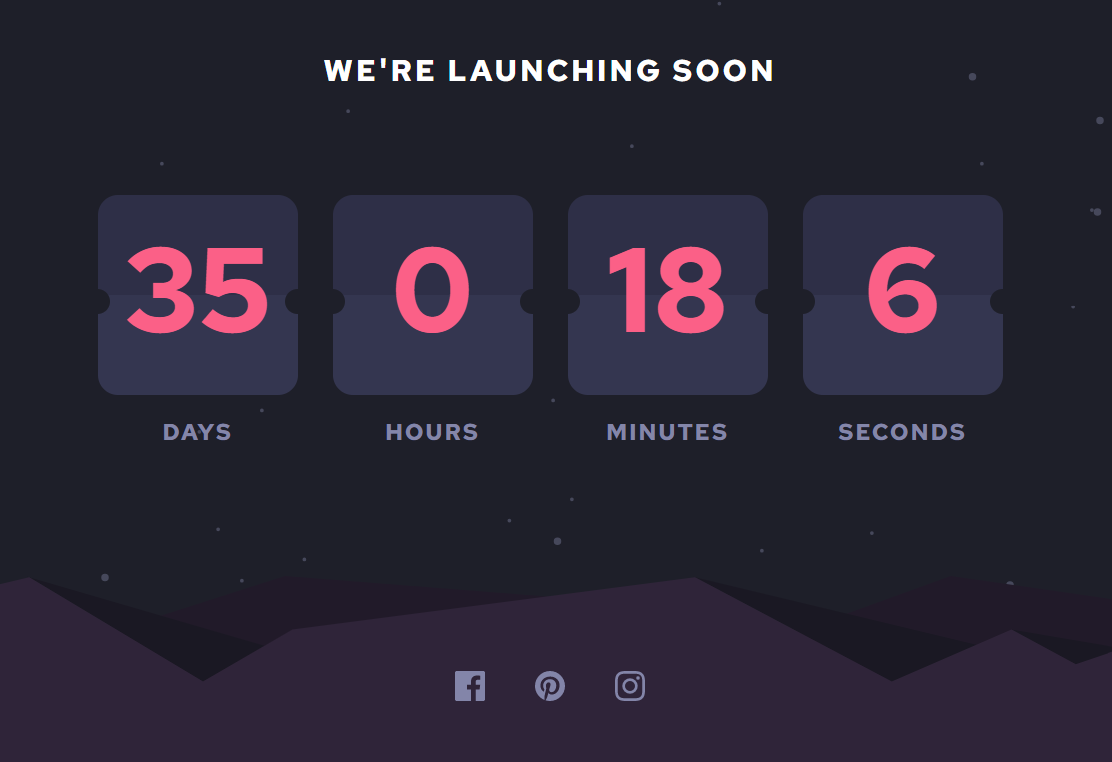
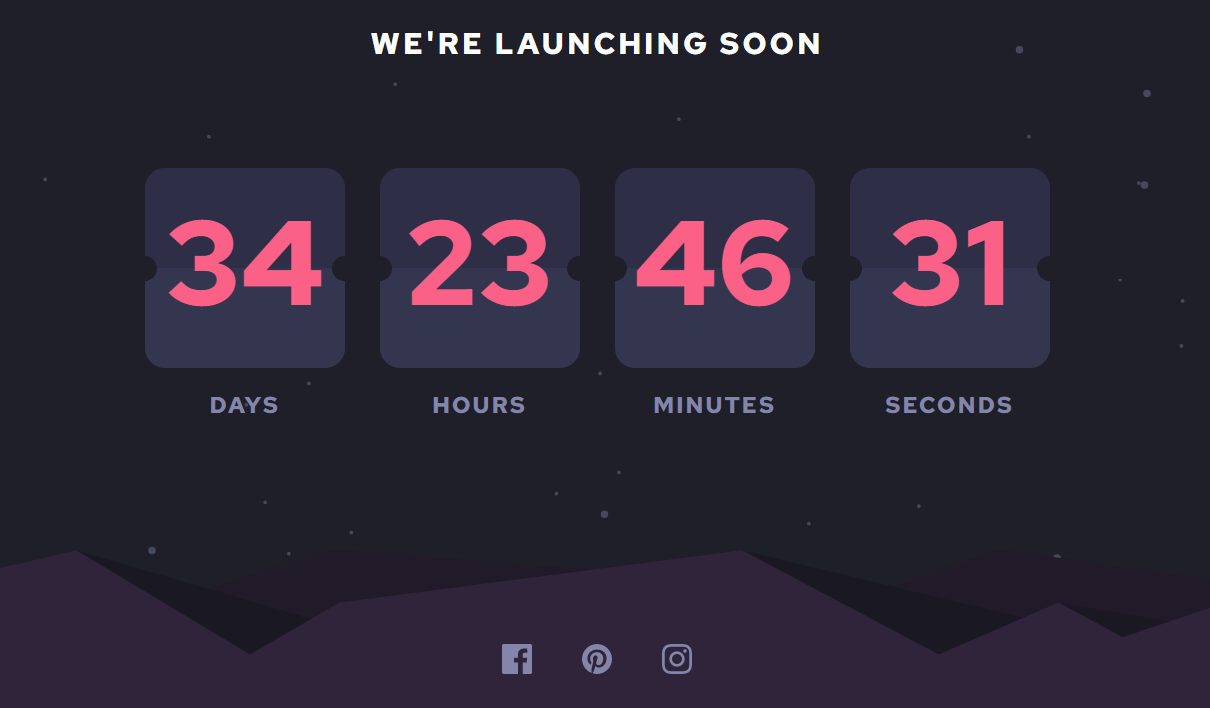
Screenshot fixed / some pixels for countdown box changed

diff --git a/src/components/CountdownBox.jsx b/src/components/CountdownBox.jsx
@@ -4,8 +4,8 @@ export const CountdownBox = ({ number, text }) => {
 			<article id="bg-gradient" className='relative rounded-2xl m-1 h-16 w-16 flex justify-between flex-col gap-3 items-center md:h-40 md:w-40 '>
 				<p className='text-4xl p-3 md:text-8xl md:p-7'>{number}</p>
 				<small className='text-primary-grayish text-[8px] tracking-widest md:text-lg mt-3'>{text}</small>
-				<div className='absolute mr-16 top-7 md:mr-40 md:top-[75px] h-3 w-3 md:h-5 md:w-5 bg-neutral-dark-blue rounded-full'></div>
-				<div className='absolute ml-16 top-7 md:ml-40 md:top-[75px] h-3 w-3 md:h-5 md:w-5 bg-neutral-dark-blue rounded-full'></div>
+				<div className='absolute mr-16 top-[27px] md:mr-40 md:top-[70px] h-3 w-3 md:h-5 md:w-5 bg-neutral-dark-blue rounded-full'></div>
+				<div className='absolute ml-16 top-[27px] md:ml-40 md:top-[70px] h-3 w-3 md:h-5 md:w-5 bg-neutral-dark-blue rounded-full'></div>
 			</article>
 		</>
 	);

diff --git a/README.md b/README.md
@@ -13,6 +13,11 @@ Users should be able to:
 
 ![](./screenshot.png)
 
+### Links
+
+- Solution URL: [https://www.frontendmentor.io/solutions/launch-countdown-timer-with-react-and-tailwind-css-OvzS_oxCIY]
+- Live Site URL: [https://jaacielbriseo.github.io/launch-countdown-timer/]
+
 ### Built with
 
 - Semantic HTML5 markup
